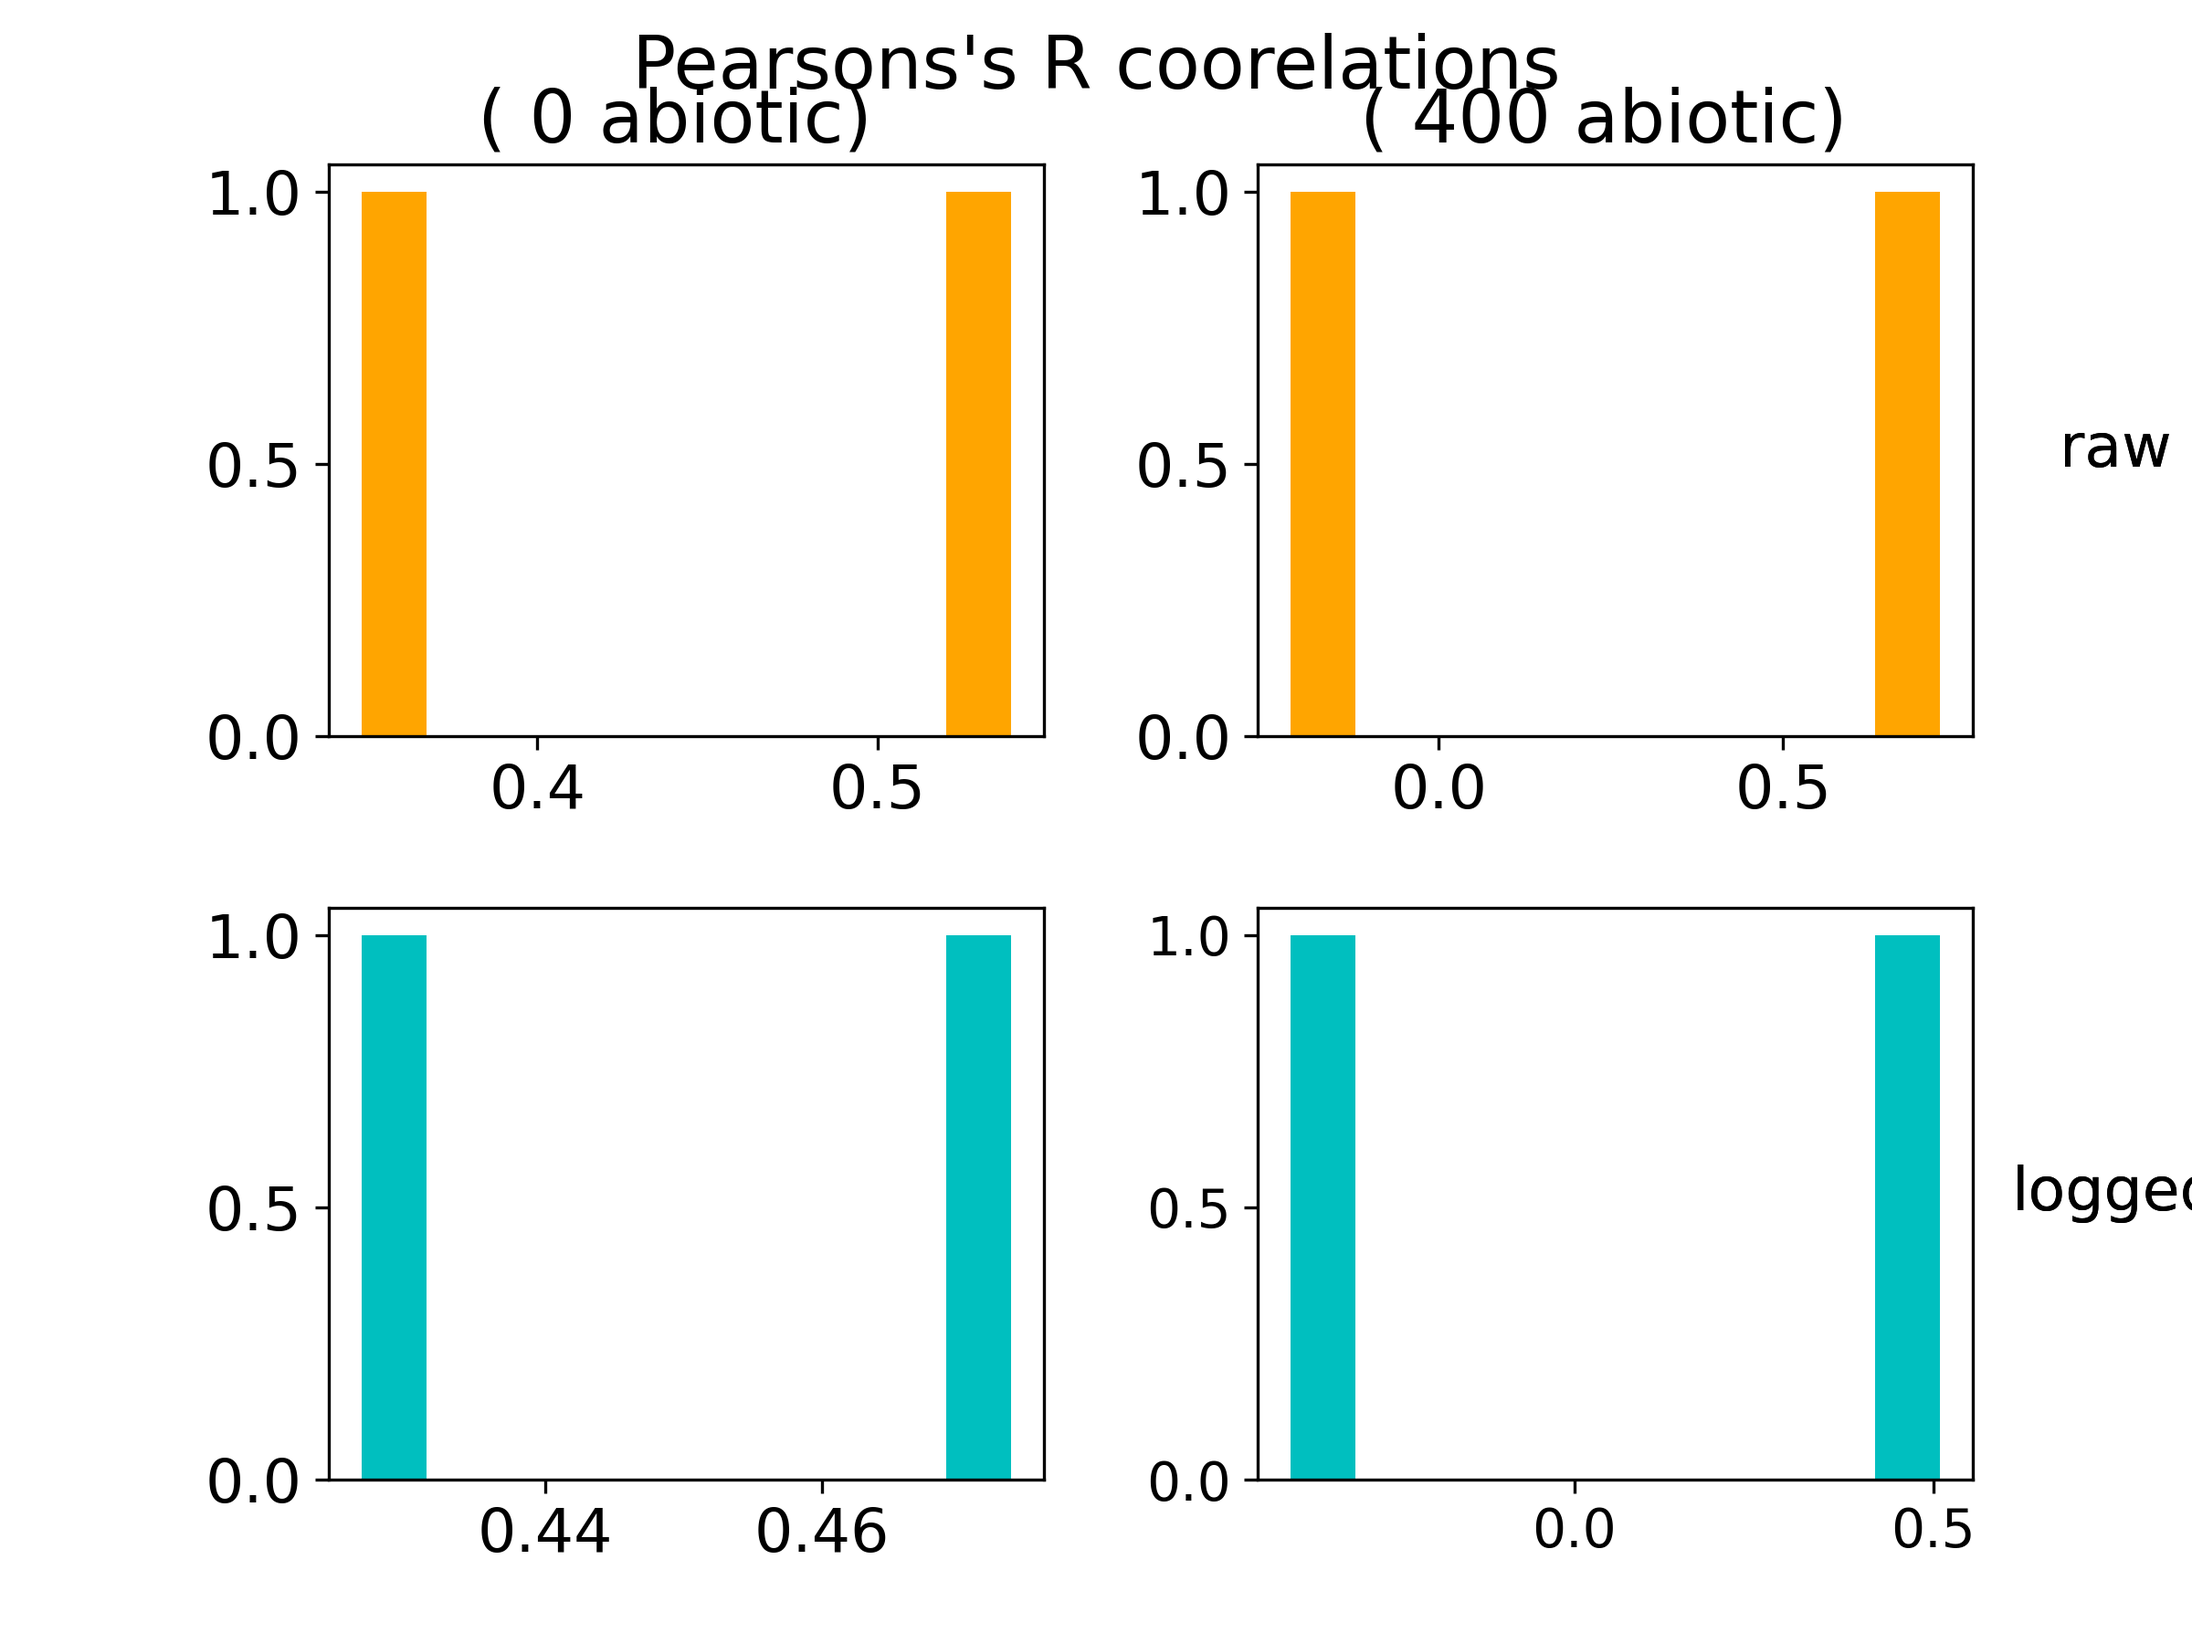
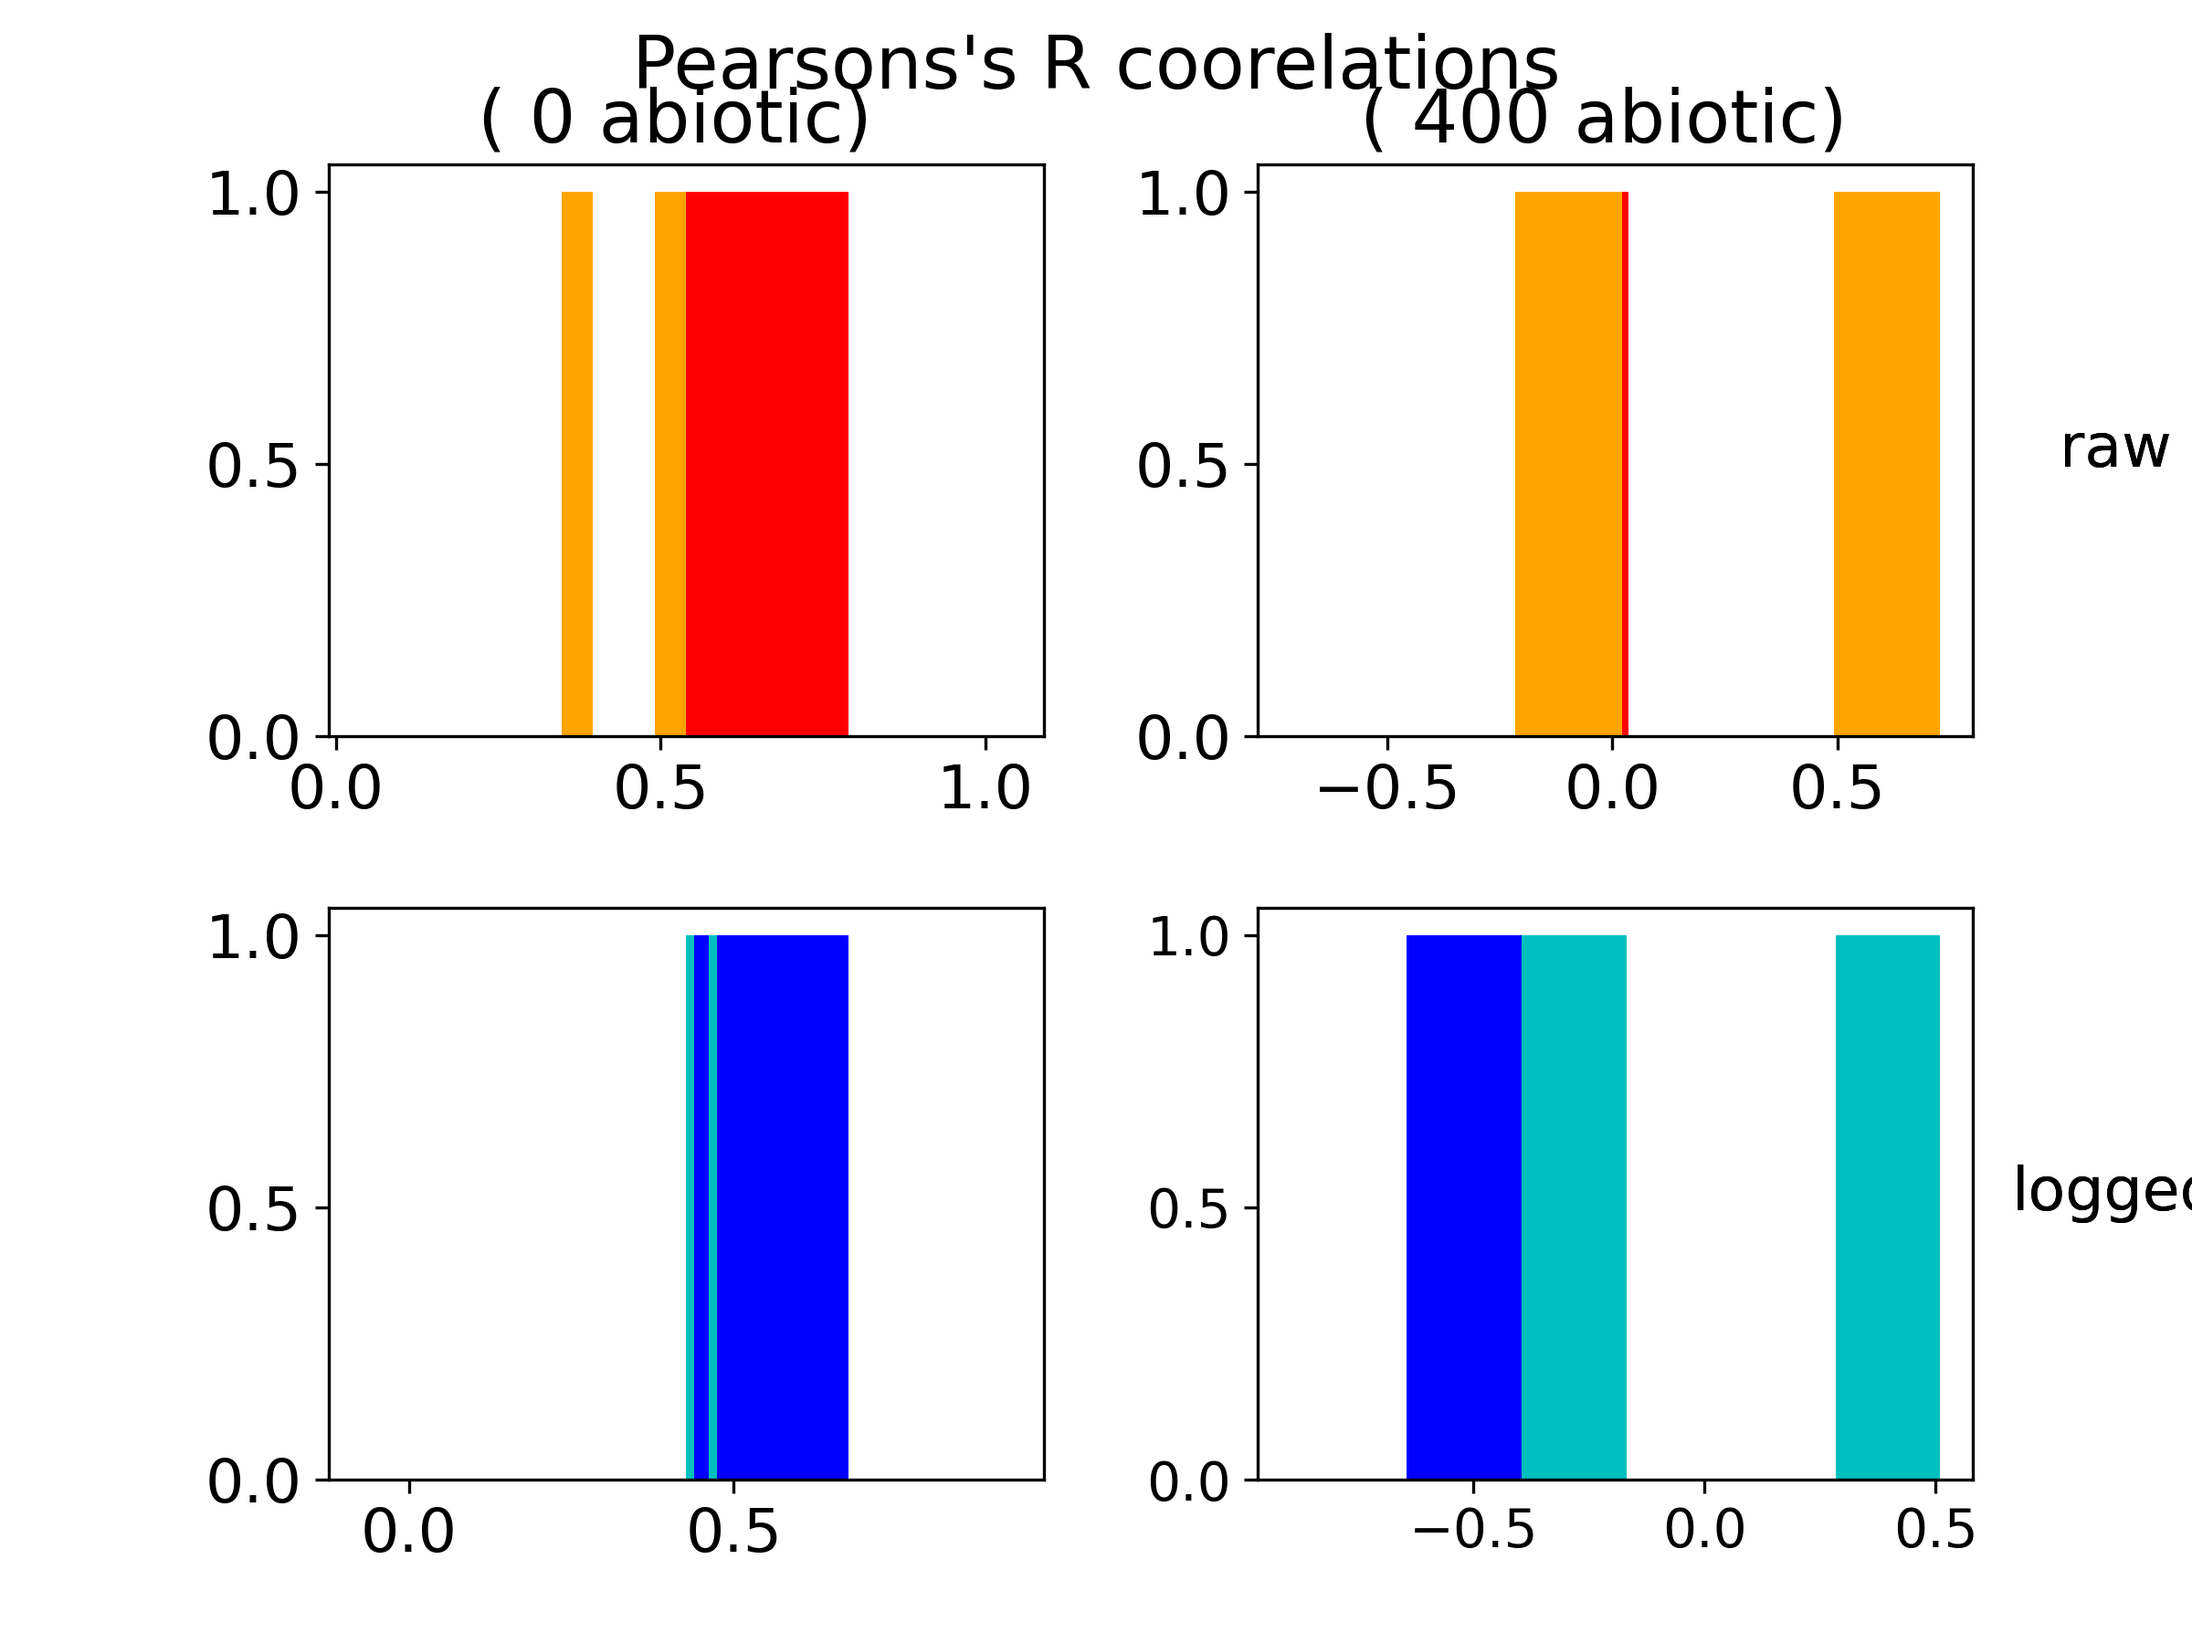
coorelations

diff --git a/src/viz_abiotic_batch.py b/src/viz_abiotic_batch.py
@@ -123,18 +123,35 @@ for (t,nt) in zip(treats,range(ntreats)):
     l2.draw_frame(False)
     raw_coor  = scipy.stats.pearsonr(df['abundance'],df['sigma'])
     log_coor = scipy.stats.pearsonr(df['log_abundance'],df['log_sigma'])
-    #raw_coor = df['abundance'].corr(df['sigma'])
-    #log_coor = df['log_abundance'].corr(df['log_sigma'])
-    ax3[0,nt].hist(raw_coor, color = 'orange')
-    ax3[0,1].text(1.2,0.5,'raw',horizontalalignment='center', verticalalignment='center', transform=ax3[0,1].transAxes)
-    ax3[1,nt].hist(log_coor,color = 'c')
-    ax3[1,1].text(1.2,0.5,'logged',horizontalalignment='center', verticalalignment='center', transform=ax3[1,1].transAxes)
+    raw_coor2 = df['abundance'].corr(df['sigma'])
+    log_coor2 = df['log_abundance'].corr(df['log_sigma'])
+    print(raw_coor, log_coor, raw_coor2, log_coor2)
+    ax3[0,nt].hist(raw_coor2, 4,color = 'red')
+    ax3[0,nt].hist(raw_coor.statistic(), 4,color = 'orange')
+    ax3[0,nt].text(1.2,0.5,'raw',horizontalalignment='center', verticalalignment='center', transform=ax3[nt,1].transAxes)
+    ax3[1,nt].hist(log_coor2,4,color = 'b')
+    ax3[1,nt].hist(log_coor.stastic(),4,color = 'c')
+    ax3[1,nt].text(1.2,0.5,'logged',horizontalalignment='center', verticalalignment='center', transform=ax3[1,nt].transAxes)
+'''
+    for a in ax1[:,0].flat:
+        a.set_aspect(4)
 
-for a in ax1.flat:
-    a.set_aspect(7)
+    for a in ax2.flat:
+        a.set_aspect(27)
+'''#set y lim and xlim'
+#yrange/xrange' pick wichever ratio is bigger logged vs unlogged'''
 
-for a in ax2.flat:
-    a.set_aspect(7)
+
+#raw and logged (std vs mean)
+#loggrange , logx range, raw y range, raw xrange, log ratio and raw ratio, then find np.max(log or raw), then get it to do somthing prety
+#convert small to largge ratio via factor and then use that factor to stretch axes lim of smaller to equal the biger
+#get yranges to match and get y and x lim print out all numbers to the graph that we are making
+
+
+
+
+
+
 
 
 plt.xticks(fontsize = 14)
